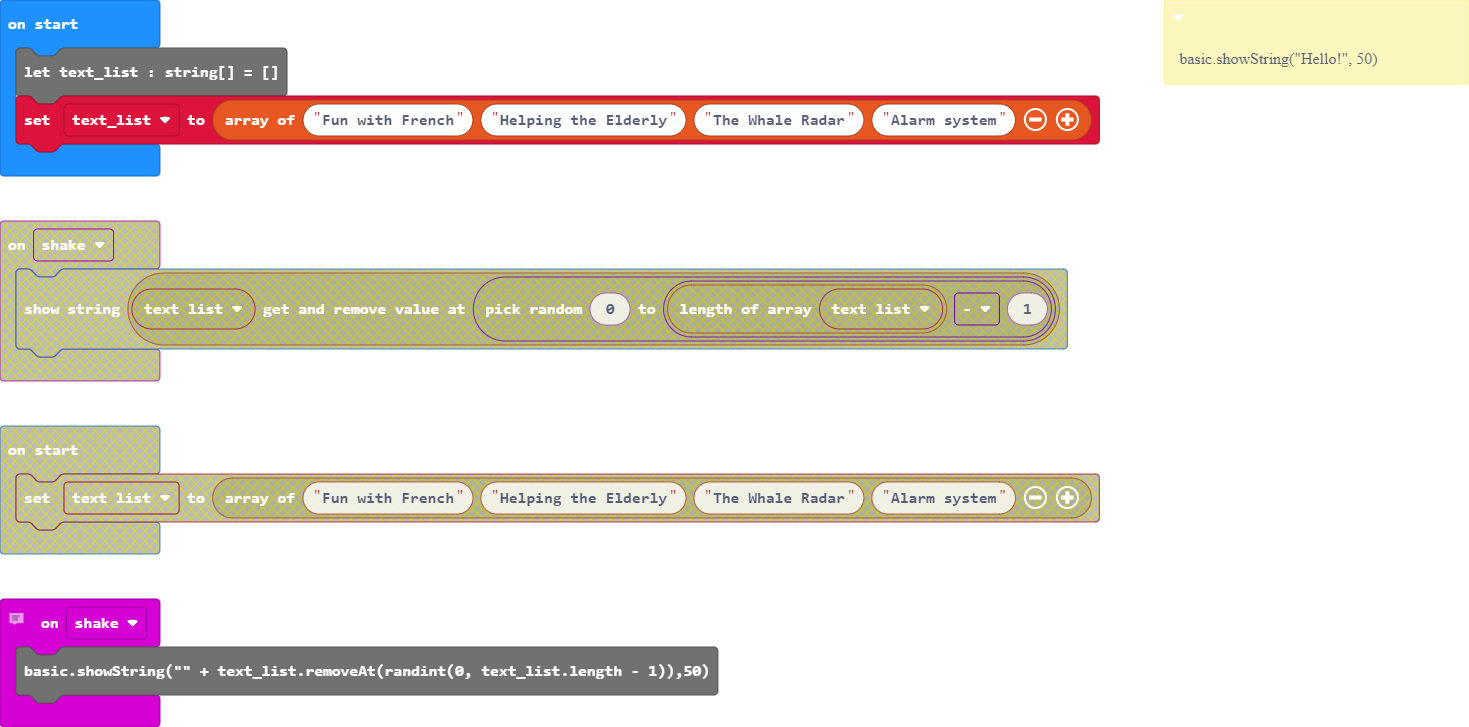
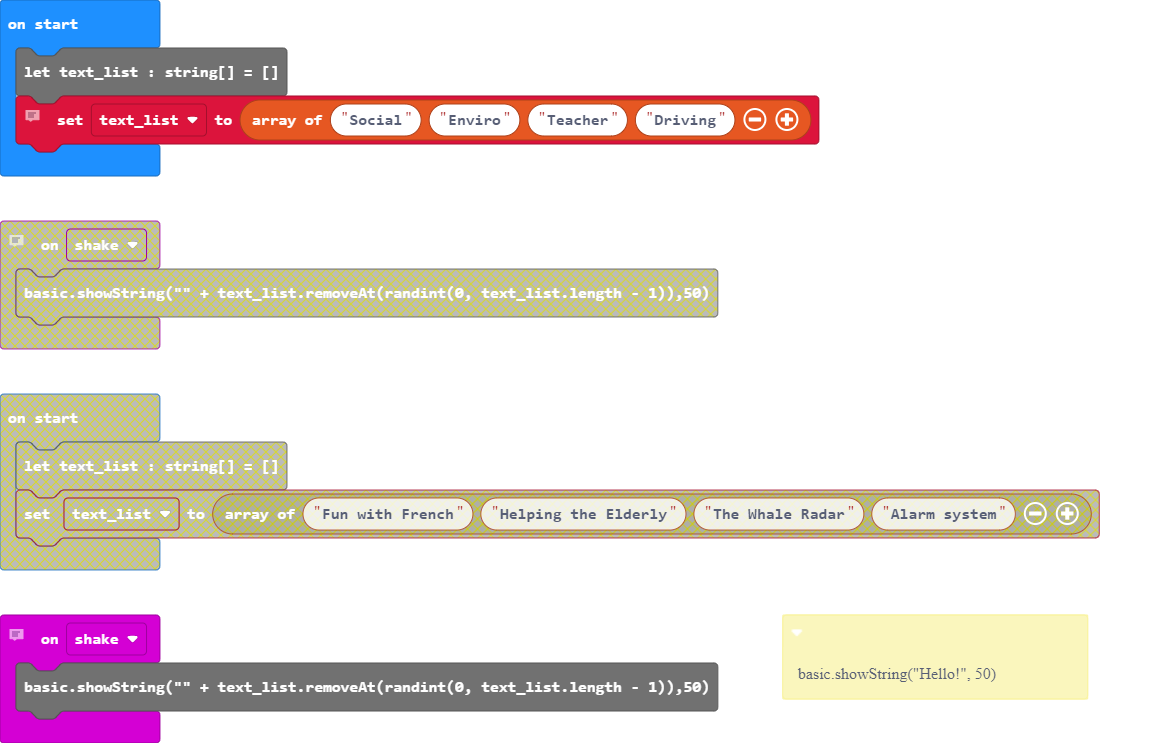
Added another list of options.

diff --git a/main.ts b/main.ts
@@ -1,9 +1,10 @@
-/**
- * basic.showString("Hello!", 50)
- */
 // This project is to help us pick the final presentation order
 input.onGesture(Gesture.Shake, function () {
     basic.showString("" + text_list.removeAt(randint(0, text_list.length - 1)),50)
 })
+/**
+ * basic.showString("Hello!", 50)
+ */
 let text_list : string[] = []
-text_list = ["Fun with French", "Helping the Elderly", "The Whale Radar", "Alarm system"]
+// text_list = ["Fun with French", "Helping the Elderly", "The Whale Radar", "Alarm system"]
+text_list = ["Social", "Enviro", "Teacher", "Driving"]
